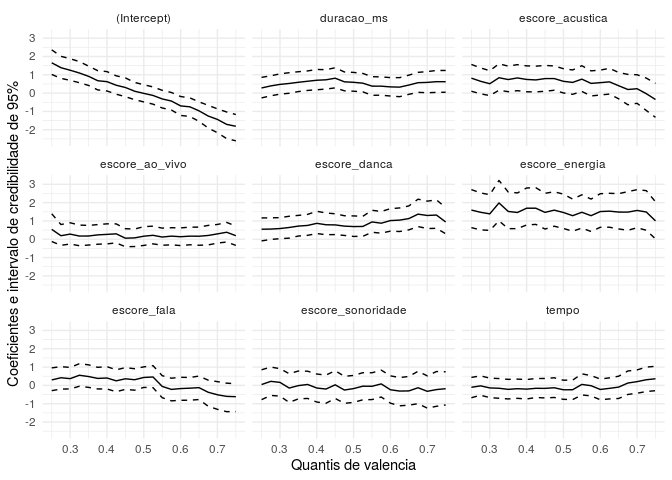
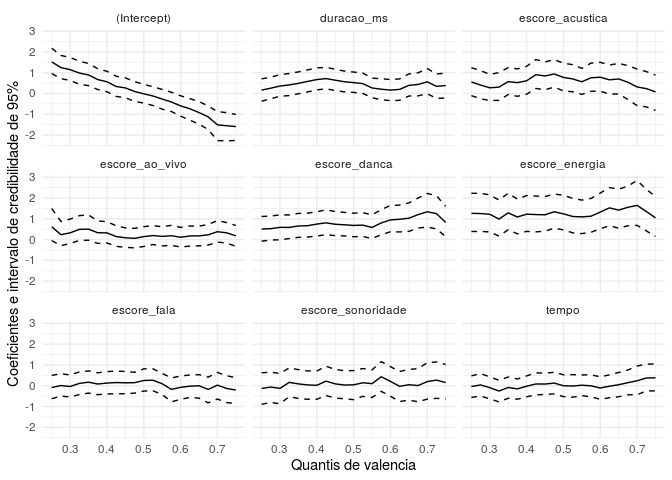
Alterando arquivos post Spotify

diff --git a/_posts/2020-06-08-spotify_playlist-post.md b/_posts/2020-06-08-spotify_playlist-post.md
@@ -4,11 +4,11 @@ title:  "Construindo playlists no Spotify a partir de modelos probabilísticos"
 author: Bruno Santos
 ---
 
-Diante do atual cenário de isolamente durante a quarentena devido à
+Diante do atual cenário de isolamento durante a quarentena devido à
 pandemia da Covid-19, é interessante pensarmos em maneiras de contornar
 alguns dos desprazeres de estarmos longe dos nossos amigos e familiares.
 Para mim uma das soluções para resolver esse probleminha é *ouvir uma
-boa música*. Embora a definição de “música boa” possa variar de pessoa
+boa música*. Embora a definição de “boa música” possa variar de pessoa
 pra pessoa, nesse *post* vamos utilizar uma informação objetiva sobre
 músicas “felizes”, conforme uma variável que é fornecida pela API do
 Spotify.
@@ -216,26 +216,26 @@ coef(modelo)
 ```
 
     ##       (Intercept)      escore_danca    escore_energia escore_sonoridade 
-    ##       -0.12804166        0.69913410        1.28755507       -0.04244425 
+    ##       -0.12345838        0.69537783        1.11227711        0.14325884 
     ##       escore_fala   escore_acustica    escore_ao_vivo             tempo 
-    ##        0.45991794        0.58382294        0.21565709       -0.23586364 
+    ##        0.26609762        0.69828862        0.19340754       -0.01454859 
     ##        duracao_ms 
-    ##        0.54225470
+    ##        0.47230439
 
 ``` r
 posterior_interval(modelo, prob = 0.95)
 ```
 
-    ##                          2.5%     97.5%
-    ## (Intercept)       -0.60323538 0.3354650
-    ## escore_danca       0.16201878 1.2524236
-    ## escore_energia     0.43865507 2.1920809
-    ## escore_sonoridade -0.78464913 0.6933824
-    ## escore_fala       -0.12191961 1.0788142
-    ## escore_acustica   -0.06622352 1.2635141
-    ## escore_ao_vivo    -0.25069567 0.7139030
-    ## tempo             -0.77413815 0.2894959
-    ## duracao_ms         0.06846657 1.0744407
+    ##                           2.5%     97.5%
+    ## (Intercept)       -0.582274955 0.3213192
+    ## escore_danca       0.146963038 1.2945369
+    ## escore_energia     0.326135738 1.9850818
+    ## escore_sonoridade -0.510518128 0.8271121
+    ## escore_fala       -0.244289928 0.8136716
+    ## escore_acustica    0.080733371 1.3837728
+    ## escore_ao_vivo    -0.238027585 0.6713185
+    ## tempo             -0.550411657 0.5339127
+    ## duracao_ms        -0.002269076 0.9785030
 
 Tendo em vista os intervalos de credibilidade, diríamos que os
 parâmetros associados às covariáveis `escore_danca`, `escore_energia` e
@@ -381,18 +381,18 @@ top_10 <- musicas_dia_faxina %>%
 knitr::kable(top_10)
 ```
 
-| artist\_full                           | tracks                                               |  probabilidades|
-|:---------------------------------------|:-----------------------------------------------------|---------------:|
-| Seu Jorge                              | Amiga Da Minha Mulher                                |       0.9737469|
-| Henrique & Diego feat. Dennis DJ       | Malbec (Part. Dennis Dj) (feat. Dennis DJ) - Ao Vivo |       0.9030628|
-| Nego do Borel feat. Maiara & Maraisa   | Esqueci Como Namora (feat. Maiara & Maraisa)         |       0.8813001|
-| Gloria Groove                          | Coisa Boa                                            |       0.8663364|
-| IZA feat. Rincon Sapiência             | Ginga (Participação especial de Rincon Sapiência)    |       0.8561442|
-| Thiaguinho feat. Ludmilla              | Só Vem! - Ao Vivo                                    |       0.8403033|
-| MC Guime feat. Emicida                 | País do Futebol                                      |       0.8283078|
-| João Lucas & Marcelo feat. MC K9       | Louquinha (feat. MC K9)                              |       0.8056123|
-| POCAH                                  | Não sou obrigada                                     |       0.7687140|
-| João Neto & Frederico feat. MC Kevinho | Cê Acredita                                          |       0.7676099|
+| artist\_full                         | tracks                                               |  probabilidades|
+|:-------------------------------------|:-----------------------------------------------------|---------------:|
+| Seu Jorge                            | Amiga Da Minha Mulher                                |       0.9702526|
+| Henrique & Diego feat. Dennis DJ     | Malbec (Part. Dennis Dj) (feat. Dennis DJ) - Ao Vivo |       0.9135900|
+| Gloria Groove                        | Coisa Boa                                            |       0.8702021|
+| Thiaguinho feat. Ludmilla            | Só Vem! - Ao Vivo                                    |       0.8378998|
+| IZA feat. Rincon Sapiência           | Ginga (Participação especial de Rincon Sapiência)    |       0.8274471|
+| POCAH                                | Não sou obrigada                                     |       0.8250744|
+| MC Loma e As Gêmeas Lacração         | Envolvimento                                         |       0.8221154|
+| Atitude 67                           | Cerveja De Garrafa (Fumaça Que Eu Faço) - Ao Vivo    |       0.8194855|
+| Maiara & Maraisa                     | 10% - Ao Vivo                                        |       0.8141347|
+| Nego do Borel feat. Maiara & Maraisa | Esqueci Como Namora (feat. Maiara & Maraisa)         |       0.8104371|
 
 Essas seriam então as dez músicas com maiores probabilidades segundo o
 modelo construído anteriormente. Poderíamos fazer algumas perguntas pra
